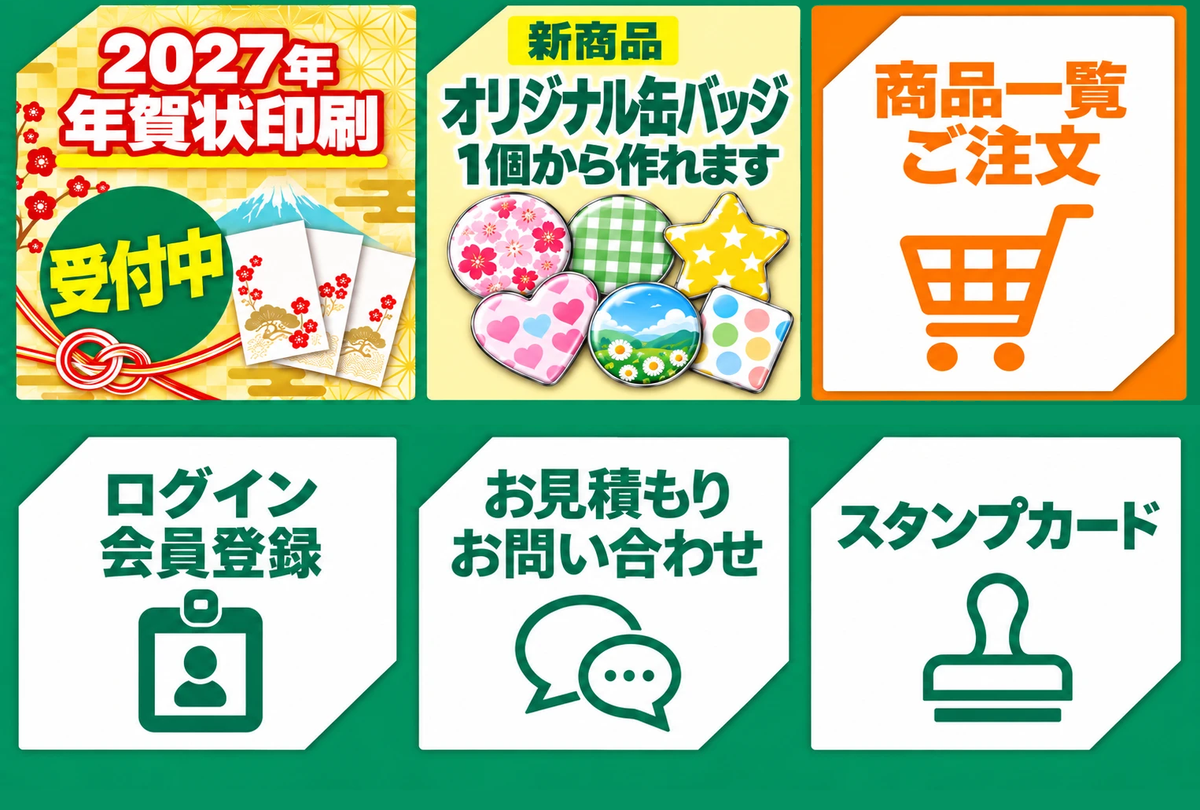
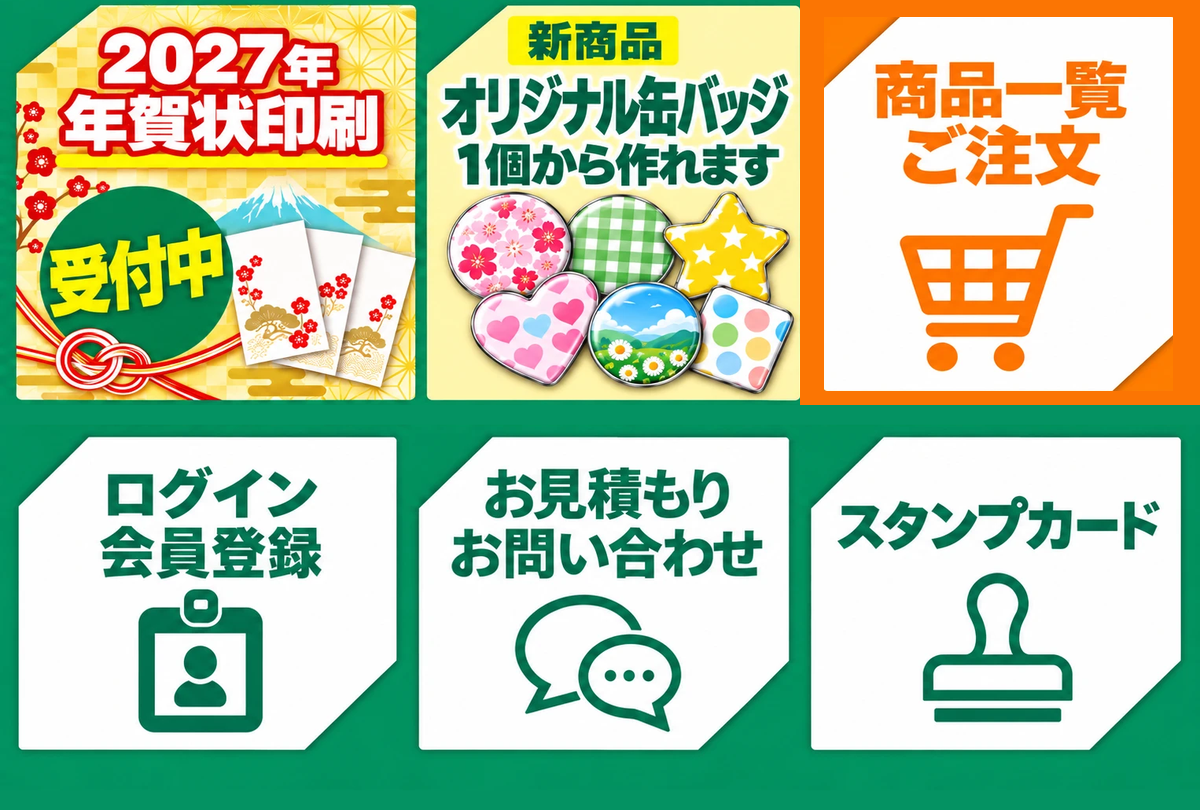
インクアート：11月リッチメニュー＝商品一覧のマスの上端・角の緑と暗い縁も全部オレンジに

Changed region(s): [[0.6475, 0.0, 1.0, 0.5247]]

diff --git a/_build/build_inkart_richmenu_202611.py b/_build/build_inkart_richmenu_202611.py
@@ -131,9 +131,17 @@ def rows_mode():
     # 上段右（商品一覧／ご注文）はマス全体をオレンジに（枠の外の緑もオレンジで塗る）
     a = np.array(out).astype(int)
     cell = a[0:CH, 2 * CW:W]
-    orange = cell[60, 8]                       # 枠の縁のオレンジを実測
+    om = (abs(cell - np.array([240, 145, 45])).sum(-1) < 90)   # 枠の縁のオレンジを実測（中央値）
+    orange = np.median(cell[om], axis=0).astype(int)
     gm = (abs(cell - np.array(green)).sum(-1) < 70)
     cell[gm] = orange
+    # 白い枠の外側（上端・右端に残る暗い縁や角）は全部オレンジで塗りつぶす
+    wm = cell.min(-1) > 235
+    ys, xs = np.where(wm)
+    x0, y0, x1, y1 = xs.min(), ys.min(), xs.max(), ys.max()
+    outside = np.ones(cell.shape[:2], bool)
+    outside[y0:y1 + 1, x0:x1 + 1] = False
+    cell[outside] = orange
     a[0:CH, 2 * CW:W] = cell
     out = Image.fromarray(a.astype("uint8"))
     out.save(OUT)
